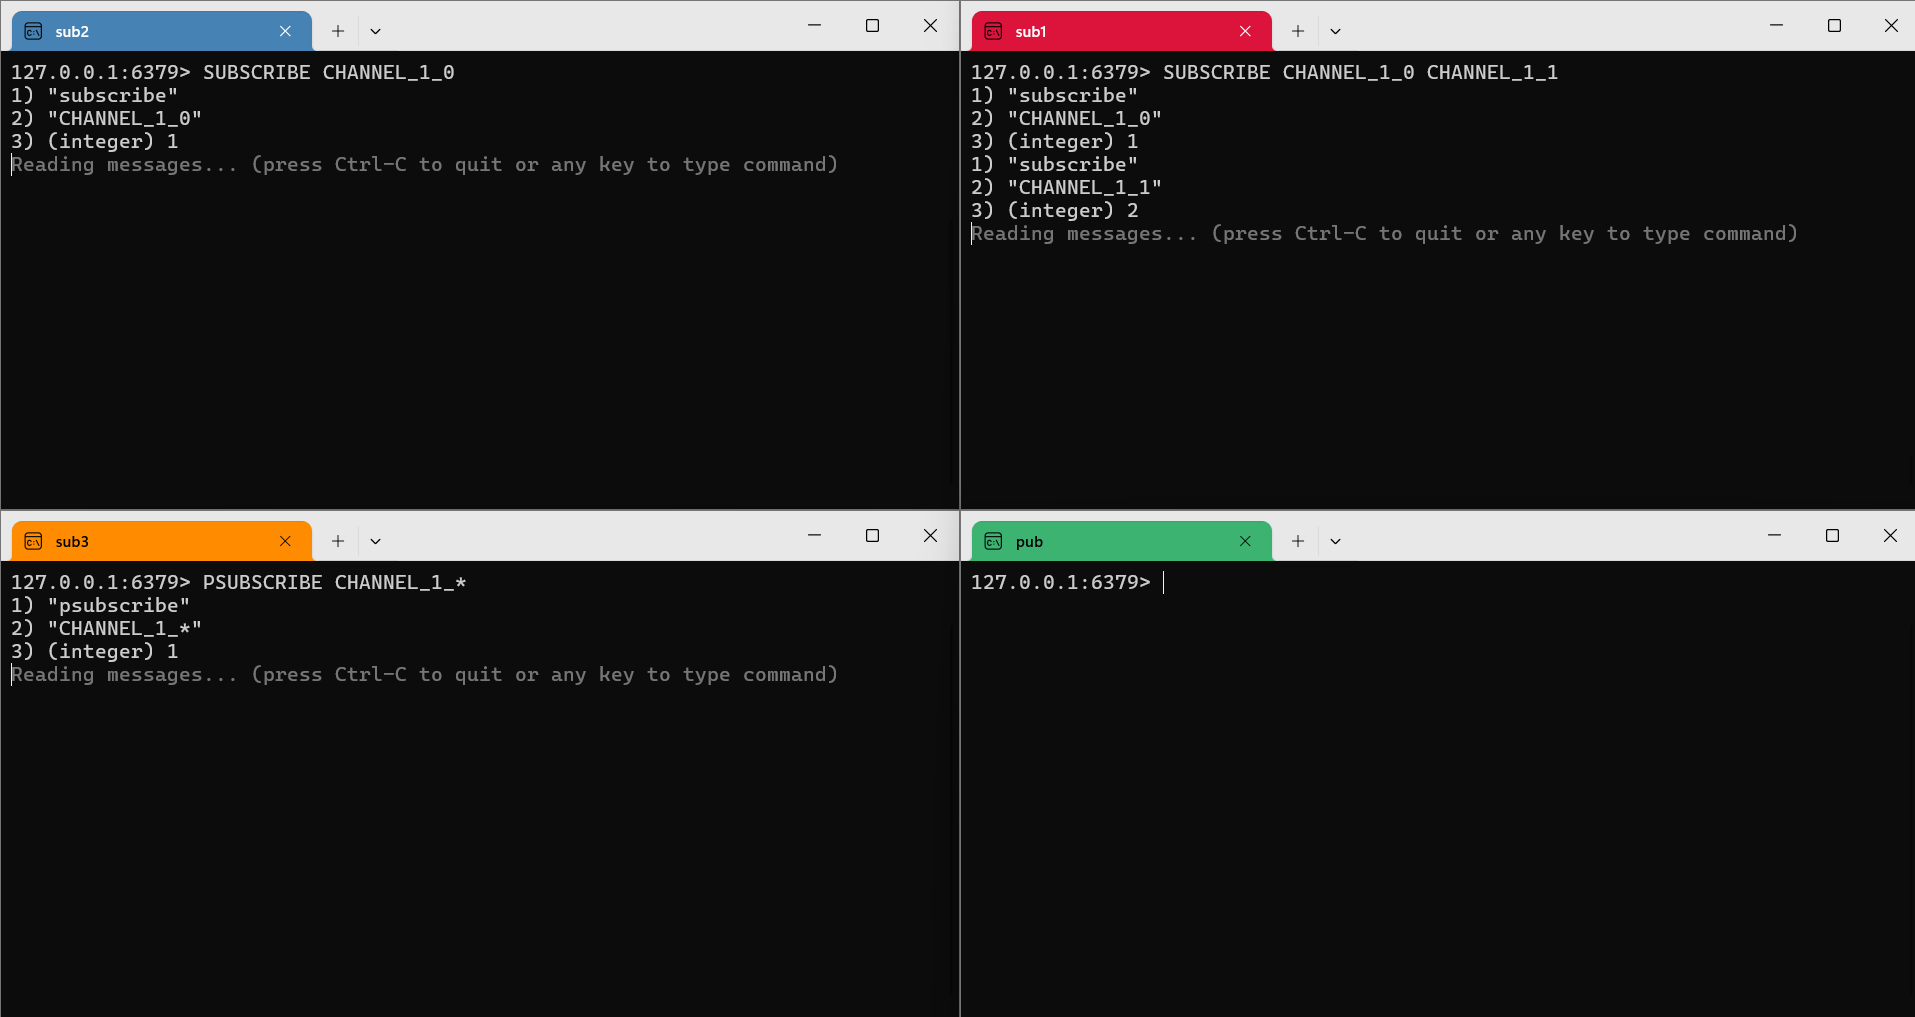
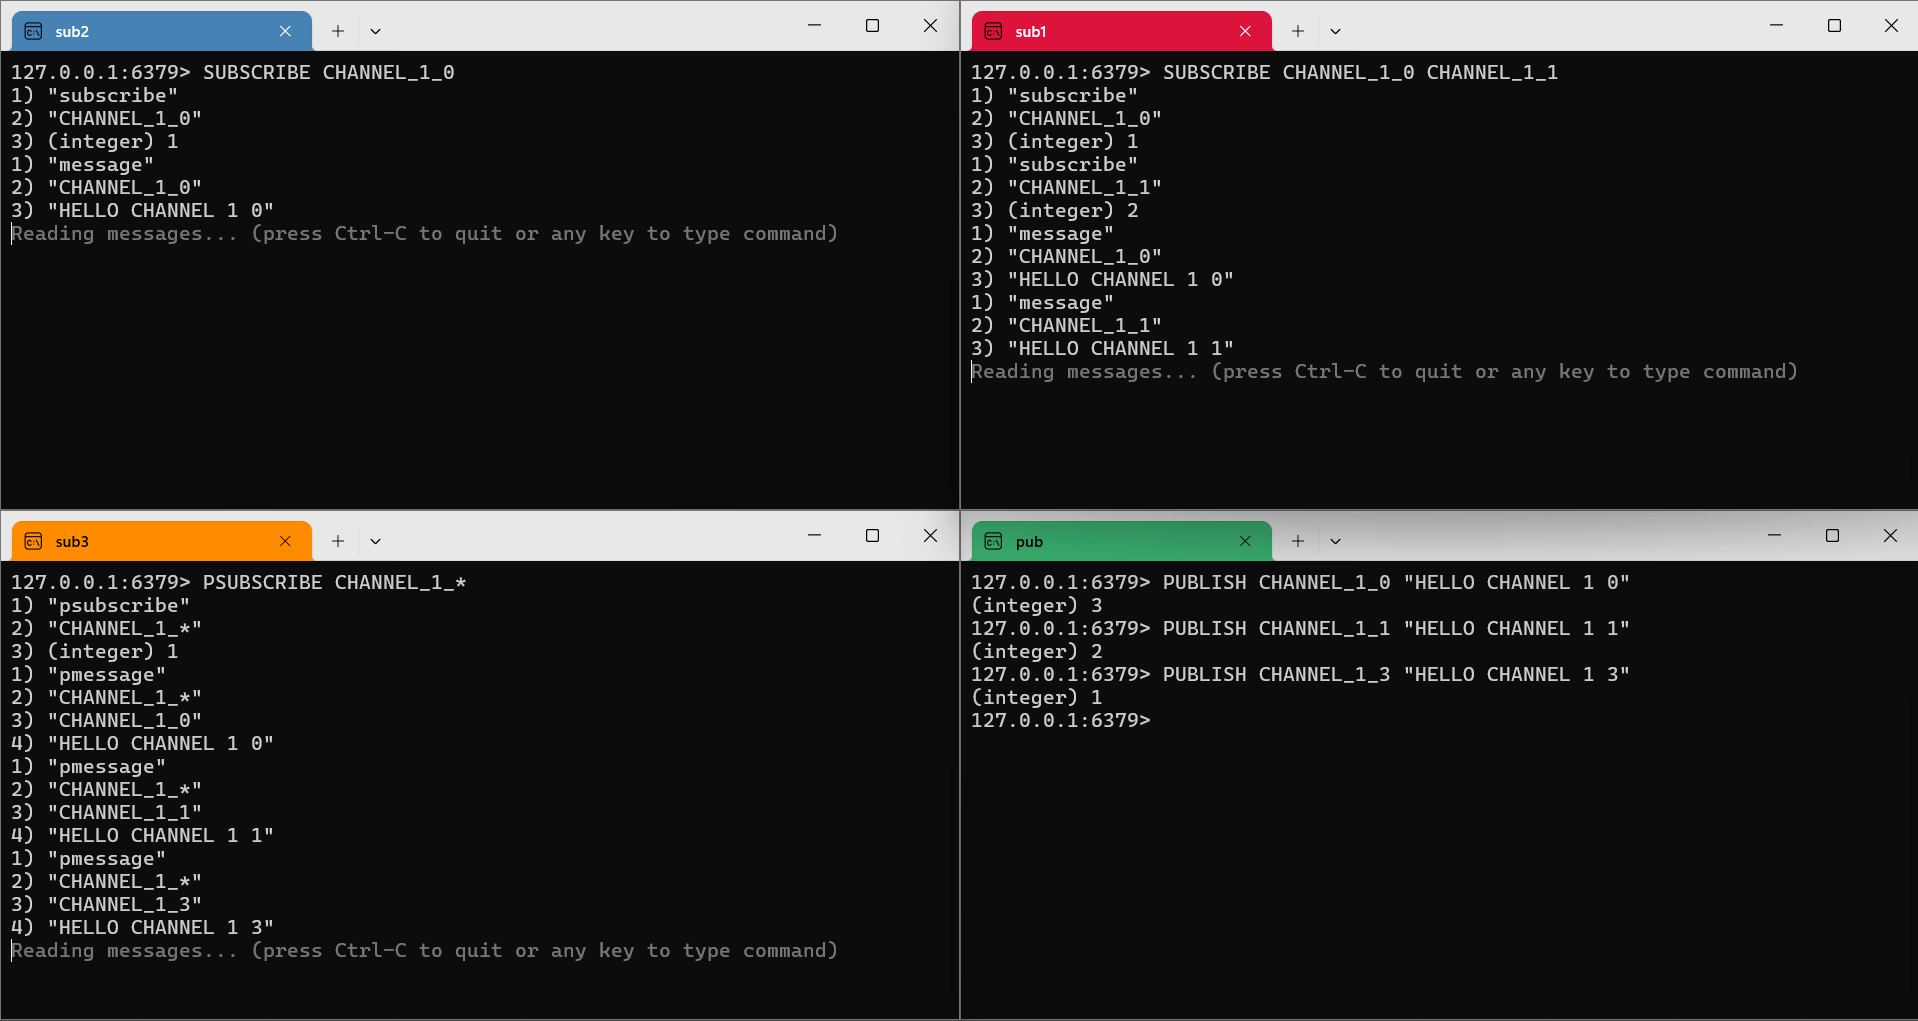
redis

diff --git a/docs/redis/eventDriven.md b/docs/redis/eventDriven.md
@@ -91,6 +91,8 @@ PUBLISH channel1 "Hello, Redis!"
 
 <ReactPlayer playing controls url='img/4.pm4' />
 
+![example](img/3.png)
+
 1. sub1
 ```redis
 127.0.0.1:6379> SUBSCRIBE CHANNEL_1_0 CHANNEL_1_1
